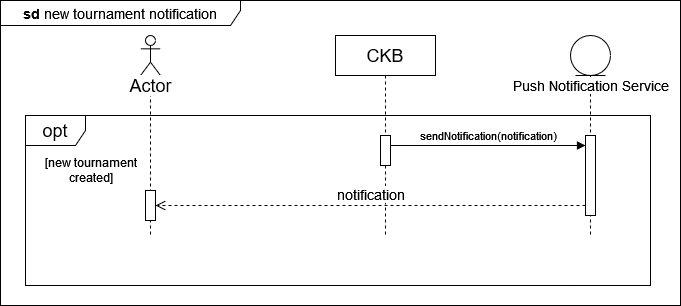
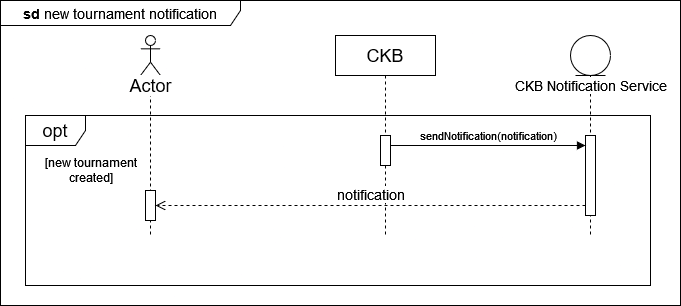
DD structure

Changed region(s): [[0.7401, 0.2647, 0.9868, 0.3235]]

diff --git a/DD/section/arch_design.tex b/DD/section/arch_design.tex
@@ -1,0 +1,112 @@
+\section{Architectural Design}
+
+The purpose of this section is to present and analyze the architecture of the software to be system in a top-down manner. We first introduced the overall architecture and then provided a diagram of the system’s components, focusing on the tournaments and battles sub-components. Next, we used an ER diagram to describe the system’s logical data and presented the system’s deployment view, including the layers and tiers involved. We also used sequence diagrams to depict important runtime views and class diagrams to analyze the component interfaces. Finally, we discussed the architectural design choices and the reasons behind them.
+
+\subsection{Overview}
+The figure shown below represents a high-level description of the components which make up the System.
+It is a distributed system with a 4-tier architecture: presentation, web server, application server and database. In this document, the presentation layer and the Client will be referred to as the Frontend, while the Application Layer and the Data Layer will be referred to as the Backend.
+\\
+\begin{figure}[h]
+    \center
+    \includegraphics[width=1\linewidth]{src/High level system architecture.png}
+    \caption{High level system architecture}
+    \label{fig:High level system architecture}
+\end{figure}
+\\
+The presentation tier is the client side, where users interact with the system through a web browser. A single page application will be developed both for educators and students to use the system. The reason behind this choice is the ease of interaction without the need for frequent page reloading, providing a better user experience.\\
+The web server is responsible for communication between the Frontend and the Backend. It handles HTTP requests, routing them to the appropriate components. It supports secure communication with clients through HTTPS, and load balancing ensures optimal performance during periods of high traffic.\\
+The application tier is the logic core of our system. It processes data received from the presentation tier, performs business logic operations, and communicates with the database. It tier ensures data integrity, security, and authentication, with role-based access controls. It interfaces with external services or APIs as needed. \\
+Finally, the data tier is responsible for storing, reading and updating all information necessary for the system. We use a relational database that offers high scalability potential for structured data.
+It interfaces with the application tier, granting data access and manipulation while respecting security protocols.\\
+The client web-server and web-server application-server communication use HTTP, while app-server DBMS communication relies on APIs. The app-servers are designed to be stateless according to REST standards. The system also includes firewalls to enhance security.\\
+
+\subsection{Component view}
+In this section we offer a more detailed view of the S2B. We will focus on the components and their interactions, along with the interfaces. To meet performance and availability criteria, most of said components will be duplicated or replicated.
+\begin{figure}[h]
+    \centering
+    \includegraphics[width=1\linewidth]{src/Component Diagram of the CKB System.png}
+    \caption{Component Diagram of the CKB System}
+    \label{fig:Component Diagram of the CKB System}
+\end{figure}
+\\
+\\
+\\
+\begin{itemize}
+    \item \textbf{Web server}\\
+    The web server is designed to handle HTTP requests from the client, redirecting them to the appropriate components. It uses client-side rendering. As the user interacts with the page, further requests may be automatically made and the page will be updated dynamically without requiring a full page reload.\\
+    \item \textbf{CKB server}\\
+    The CKB server is responsible for the business logic and provide the full functionality to users. Since most of the functionalities offered are shared between educators and students, there will not be a different server for each user category. It is further composed of different components.\\
+    \begin{itemize}
+        \item \textbf{CKB’s Account Manager}\\
+        This component handles all the account operations related to the users and offers an interface to authenticate the requests. It offers functionality to create new account, logging in, setting preferences and verify the authentication of the user at any time. To create a new account, It interacts with the external email provider API to make the user receive a code to verify the identity.\\
+        \item \textbf{Search helper}\\
+        This component enables the search functionality, letting users and non-users search for a specific user or a specific tournament. It also allows filtering based on date posted, number of awards, ongoing/finished, number of participants and much more (tournaments).\\
+        \item \textbf{Profile viewer}\\
+        This component allows viewing profiles of users subscribed to CKB, both educators and students. Anyone can see profiles, even unsubscribed users. Within the profile page, there may be tournaments the user took part in (as a student or as an educator) and clicking them will redirect that tournament page.\\
+        \item \textbf{Tournament viewer}\\
+        This component allows viewing tournaments, along with the battle pages in the scope of It. Anyone can see tournaments, even unsubscribed users. You can find all the information related to that tournament, as well as the battles, including teams, final rank for each battle and much more.\\
+        \item \textbf{Tournament manager}\\
+        This component allows managing and creating tournaments for educators and subscribing to them for students. The creator can grant other educators permission to create battles. For ongoing tournaments, allowed educators can create new battle clicking the right button. Such functionality is provided through the next component.\\
+        \item \textbf{Battle manager}\\
+        This component allows managing and creating battles for educators and joining them for students. It also manages the team functionality, allowing students to team up for each battle. \\
+        \item \textbf{Badge helper}\\
+        This component enables the gamification aspects of CKB. It allows educators to create badges and define new rules as well as new variables associated with them. Badges are then linked to the profile of users achieving them, making them visible to anyone.\\
+        \item \textbf{CKB Notification Service}\\
+        This component enables the CKB notifications. Users will receive notifications about important events, like new tournaments created, tournament to which the user is subscribed closes and more.
+        \newline
+        \newline
+        \textbf{External APIs}\\
+        \item \textbf{GitHub API}\\
+        This API enables the GitHub integration: new repositories automatically created (e.g. when a new battle begins) and sources automatically downloaded (e.g. when a user pushes new code to the main branch of his repository)\\
+        \item \textbf{Email provider API}
+        This service is used for authentication during registration and for important notifications.
+    \end{itemize}
+    \vspace{1cm}
+    \item \textbf{Query Manager}
+    \\This component is responsible for communicating with the Database Management System. It follows the adapter pattern, allowing  easier communication between other components and the DBMS.
+\end{itemize}
+
+\vspace{1cm}
+
+\subsection{Deployment view}
+This chapter describes the deployment of the system.
+\begin{figure}[h]
+    \centering
+    \includegraphics[width=1\linewidth]{src/Deployment View of the system.png}
+    \caption{Deployment View of the system}
+    \label{fig:Deployment View of the system}
+\end{figure}
+\\
+\begin{itemize}
+    \item \textbf{Web-server}\\
+    The web-server will be the entry point for the SPA. It forwards the requests to the application-server. A modern device with access to a web browser is required to interface with the web-server. 
+    \item \textbf{Load Balancer}\\
+    This device is responsible for load balancing, which means, distributing incoming network traffic and requests across multiple servers. Its primary purpose is to optimise resource utilization, enhance reliability while ensuring high availability.
+    \item \textbf{Firewall}\\
+    Firewalls are used to filter connections to the application and data layers of a system. They are located between the internet and the system intranet. They offer additional security blocking or allowing traffic based on predetermined rules.
+\end{itemize}
+
+\subsection{Runtime View}
+This section illustrates the interactions between actors, subsystems and interfaces of the system showing the specific method called.
+
+\subsection{Component Interfaces}
+This section lists all the methods offered by each component interface to the other components.
+
+\subsection{Selected architectural styles and patterns}
+\begin{itemize}
+    \item \textbf{Three layer four tier}\\
+    This architecture offers several benefits. It allows the distinction of layers (presentation, logic, data) and tiers (client, web server, application server, DBMS), which makes the system more modular and easier to maintain. Such separation also allows better scalability and better workload distribution across multiple servers. Finally, load balancing and caching techniques are available to further increase performance and availability.
+
+    \item \textbf{RESTful APIs}\\
+    The API is based on standard web technologies, like JSON or XML, allowing better integration with other systems. It is stateless, which makes the development easier. It also promotes simplicity and scalability.\\
+    \item \textbf{Adapter pattern}\\
+    The Adapter Pattern seamlessly integrates different components, standardizing interfaces and ensuring flexibility. It hides the underlying complexity and provides a set of high-level functions. 
+\end{itemize}
+
+\vspace{1cm}
+    
+\subsection{Other design decisions}
+\begin{itemize}
+    \item SQL database
+    SQL databases offer high scalability and decent performance for structured data. It follows ACID principles and ensures data integrity. Overall, It is a good compromise for performance, consistency, reliability and ease of use.
+\end{itemize}

diff --git a/RASD/section/Specific_requirements.tex b/RASD/section/Specific_requirements.tex
@@ -635,7 +635,8 @@ In case of exception, the system will not respond to the new push since It will 
 { % notes
 
 }
-
+In the next use cases, CKB notification service is represented, even though It's part of the system itself, in order for the diagrams 
+to be more comprehensible.
 \usecase
 {
     \begin{figure}[H]
